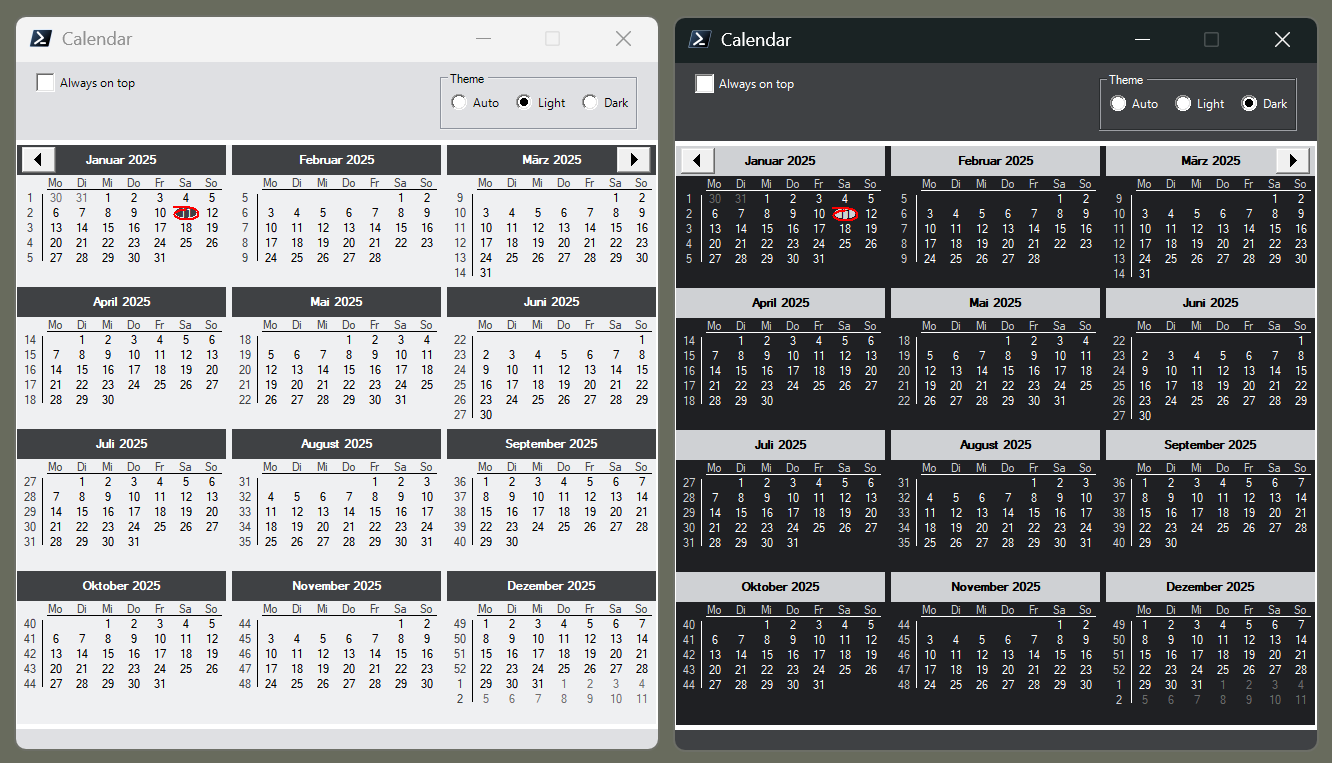
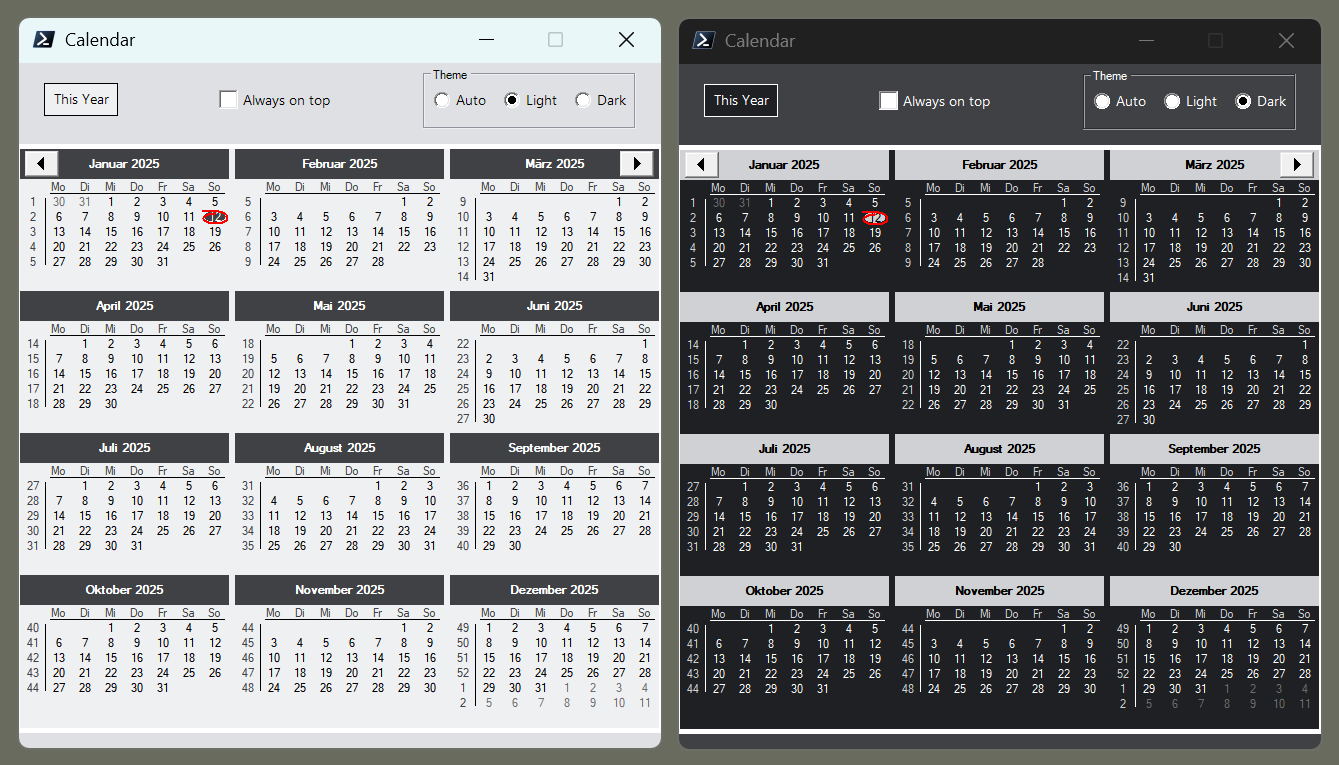
Enable scrolling to current year

diff --git a/calendar.js b/calendar.js
@@ -118,14 +118,30 @@ ws.Run("conhost.exe " + ps + " -c \"" +
 "  $rbl.Left = $rba.Right + 10;" +
 "  $rbd.Left = $rbl.Right + 10;" +
 "  $rbd.Top = $rbl.Top = $rba.Top = 20;" +
-"  $grp.Location = \\\"$($cal.Right - $grp.Width - 20), 10\\\";" +
-"  $cal.Top = $grp.Bottom + 10;" +
+"  $grp.Location = \\\"$($wnd.ClientSize.Width - $grp.Width - 25), 5\\\";" +
+"  $cal.Top = $grp.Bottom + 15;" +
 "  $wnd.Activate();" +
+"});" +
+"$btn = [Windows.Forms.Button]@{" +
+"  AutoSize = $true;" +
+"  AutoSizeMode = 'GrowAndShrink';" +
+"  FlatStyle = 'Flat';" +
+"  Font = \\\"Segoe UI, $(7 * $zoom)\\\";" +
+"  Location = '25, 20';" +
+"  Text = 'This Year';" +
+"};" +
+"$btn.add_Click({" +
+"  $now = Get-Date;" +
+"  $first = Get-Date -Year $now.Year -Month 1 -Day 1;" +
+"  $last = Get-Date -Year $now.Year -Month 12 -Day 31;" +
+"  $cal.SelectionRange = @{Start = $first; End = $first;};" +
+"  $cal.SelectionRange = @{Start = $last; End = $last;};" +
+"  $cal.SelectionRange = @{Start = $now; End = $now;};" +
 "});" +
 "$chk = [Windows.Forms.CheckBox]@{" +
 "  AutoSize = $true;" +
-"  Font = \\\"Segoe UI, $(6 * $zoom)\\\";" +
-"  Padding = '20, 10, 0, 20';" +
+"  Font = $btn.Font;" +
+"  Location = '200, 25';" +
 "  Text = 'Always on top';" +
 "};" +
 "$chk.add_CheckedChanged({" +
@@ -133,12 +149,12 @@ ws.Run("conhost.exe " + ps + " -c \"" +
 "});" +
 "$cal = [Windows.Forms.MonthCalendar]@{" +
 "  CalendarDimensions = '3, 4';" +
-"  Margin = '0, 0, 0, 20';" +
+"  Margin = '0, 0, 0, 15';" +
 "  ScrollChange = 3;" +
 "  ShowToday = $false;" +
 "  ShowWeekNumbers = $true;" +
 "};" +
-"$cal.Font = \\\"$($chk.Font.FontFamily), $($cal.Font.Size * $fct * $zoom)\\\";" +
+"$cal.Font = \\\"$($btn.Font.FontFamily), $($cal.Font.Size * $fct * $zoom)\\\";" +
 "$grp = [Windows.Forms.GroupBox]@{" +
 "  AutoSize = $true;" +
 "  AutoSizeMode = 'GrowAndShrink';" +
@@ -148,45 +164,45 @@ ws.Run("conhost.exe " + ps + " -c \"" +
 "$rba = [Windows.Forms.RadioButton]@{" +
 "  AutoSize = $true;" +
 "  Checked = $true;" +
-"  Font = $chk.Font;" +
+"  Font = $btn.Font;" +
 "  Margin = '0, 0, 0, 0';" +
 "  Text = 'Auto';" +
 "};" +
 "$rba.add_CheckedChanged({" +
-"  if ($rba.Checked) {&$settheme};" +
+"  if ($rba.Checked) {&$settheme}" +
 "});" +
 "$rbl = [Windows.Forms.RadioButton]@{" +
 "  AutoSize = $true;" +
-"  Font = $chk.Font;" +
+"  Font = $btn.Font;" +
 "  Margin = '0, 0, 0, 0';" +
 "  Text = 'Light';" +
 "};" +
 "$rbl.add_CheckedChanged({" +
-"  if ($rbl.Checked) {&$settheme};" +
+"  if ($rbl.Checked) {&$settheme}" +
 "});" +
 "$rbd = [Windows.Forms.RadioButton]@{" +
 "  AutoSize = $true;" +
-"  Font = $chk.Font;" +
+"  Font = $btn.Font;" +
 "  Margin = '0, 0, 0, 0';" +
 "  Text = 'Dark';" +
 "};" +
 "$rbd.add_CheckedChanged({" +
-"  if ($rbd.Checked) {&$settheme};" +
+"  if ($rbd.Checked) {&$settheme}" +
 "});" +
 "$grp.Controls.AddRange(@($rba, $rbl, $rbd));" +
-"$wnd.Controls.AddRange(@($chk, $grp, $cal));" +
+"$wnd.Controls.AddRange(@($btn, $chk, $grp, $cal));" +
 "$settheme = {" +
 "  $dark = $(if ($rba.Checked) {$wnd.DarkMode} else {$rbd.Checked});" +
 "  if ($dark) {" +
-"    $pal = 'White', 'Black', '#1F2023', '#CFD1D4', '#3F4144';" +
+"    $pal = 'White', 'Black', '#1F2023', '#CFD1D4', '#3F4144'" +
 "  }" +
 "  else {" +
-"    $pal = 'Black', 'White', '#EFF0F2', '#3F4144', '#DFE0E3';" +
+"    $pal = 'Black', 'White', '#EFF0F2', '#3F4144', '#DFE0E3'" +
 "  }" +
 "  $wnd.SuspendRedrawWhile({" +
-"    $cal.ForeColor = $grp.ForeColor = $chk.ForeColor = $pal[0];" +
+"    $cal.ForeColor = $grp.ForeColor = $chk.ForeColor = $btn.ForeColor = $pal[0];" +
 "    $cal.TitleForeColor = $pal[1];" +
-"    $cal.BackColor = $pal[2];" +
+"    $cal.BackColor = $btn.BackColor = $pal[2];" +
 "    $cal.TitleBackColor = $pal[3];" +
 "    $wnd.BackColor = $pal[4];" +
 "    $wnd.DarkTitleBar = $dark;" +
